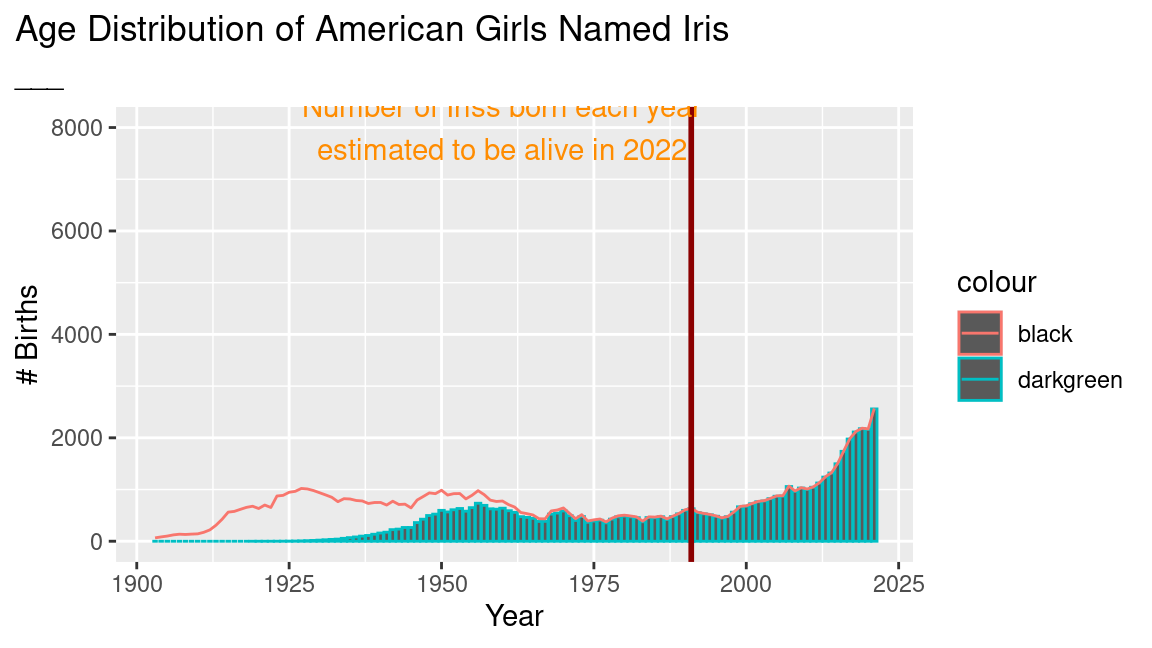
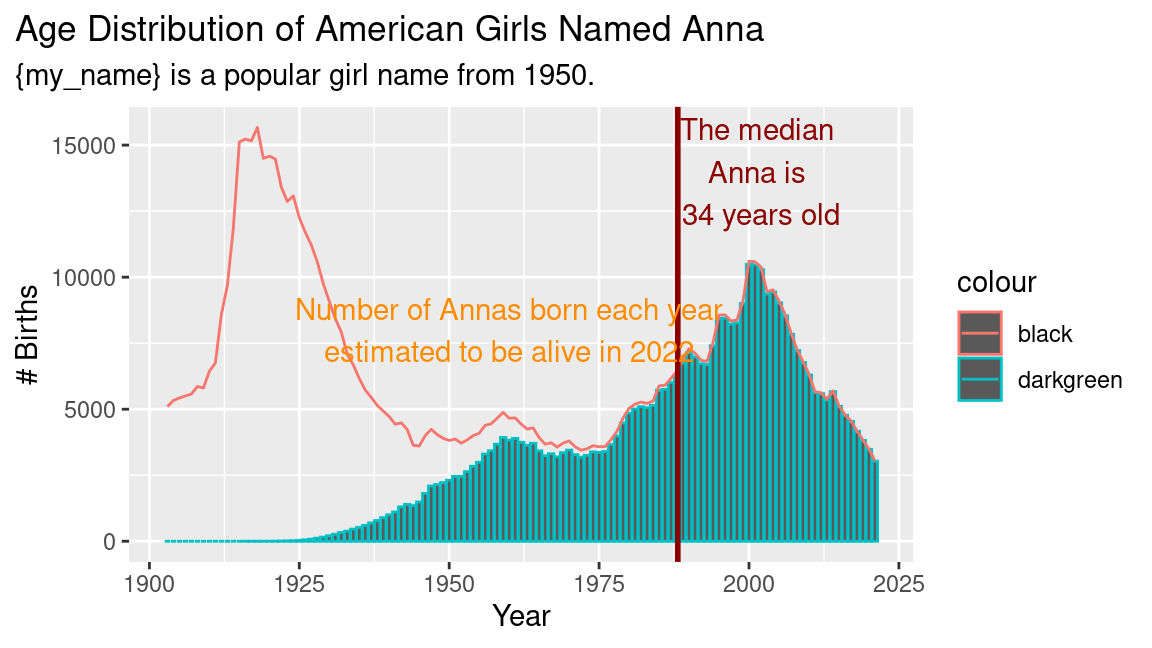
Updates to Project 2 files

diff --git a/projects/project-02/project-02-estimate-age-from-name.md b/projects/project-02/project-02-estimate-age-from-name.md
@@ -389,7 +389,7 @@ plot_estimated_age <- function(tbl, my_name, my_sex) {
     # Add labels (title, subtitle, x, y)
     labs(
       title = glue::glue('Age Distribution of American Girls Named {my_name}'),
-      subtitle = "___",
+      subtitle = "{my_name} is a popular girl name from 1950.",
       x = "Year",
       y = "# Births"
     ) +
@@ -418,7 +418,7 @@ plot_estimated_age <- function(tbl, my_name, my_sex) {
 }
 
 tbl_names_extended |> 
-  plot_estimated_age("Iris", "F")
+  plot_estimated_age("Anna", "F")
 ```
 
 <img src="img/plot-estimated-age-1.png" width="100%" style="display: block; margin: auto;" />
@@ -526,7 +526,7 @@ tbl_names_extended_age |>
   # Add labels (title, subtitle, x, y)
   labs(
     title = "Median ages for Females with the 25 most common names (2023)",
-    subtitle = "___",
+    subtitle = "Emily and Ashley are recently popular names for girls.",
     x = "Percentile",
     y = "Name"
   ) +
